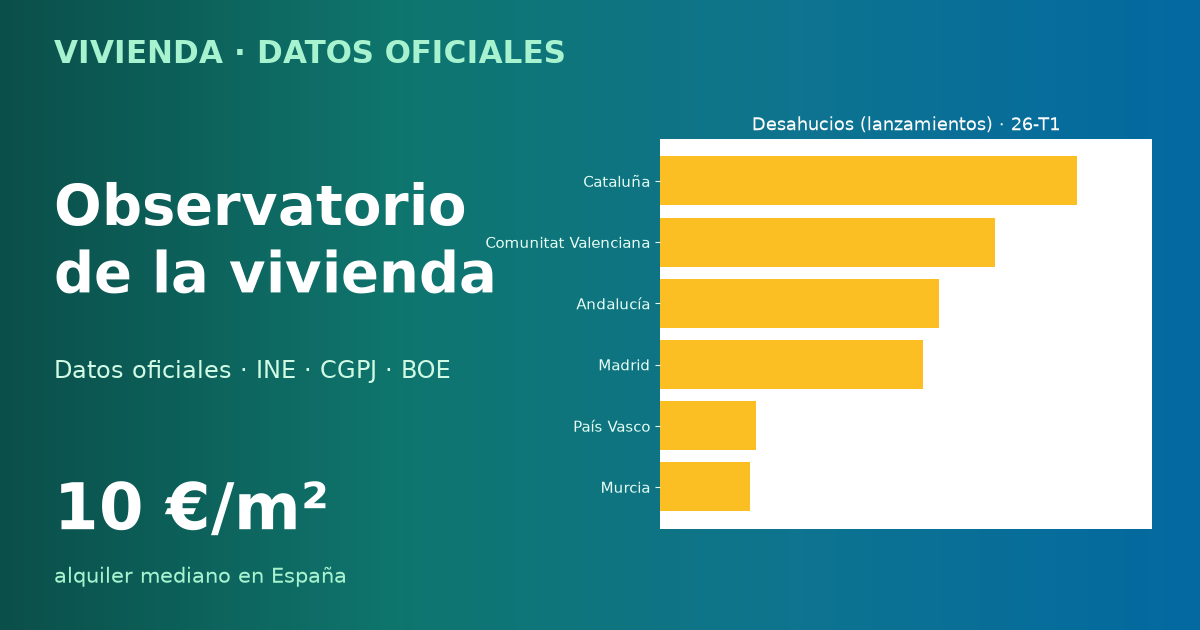
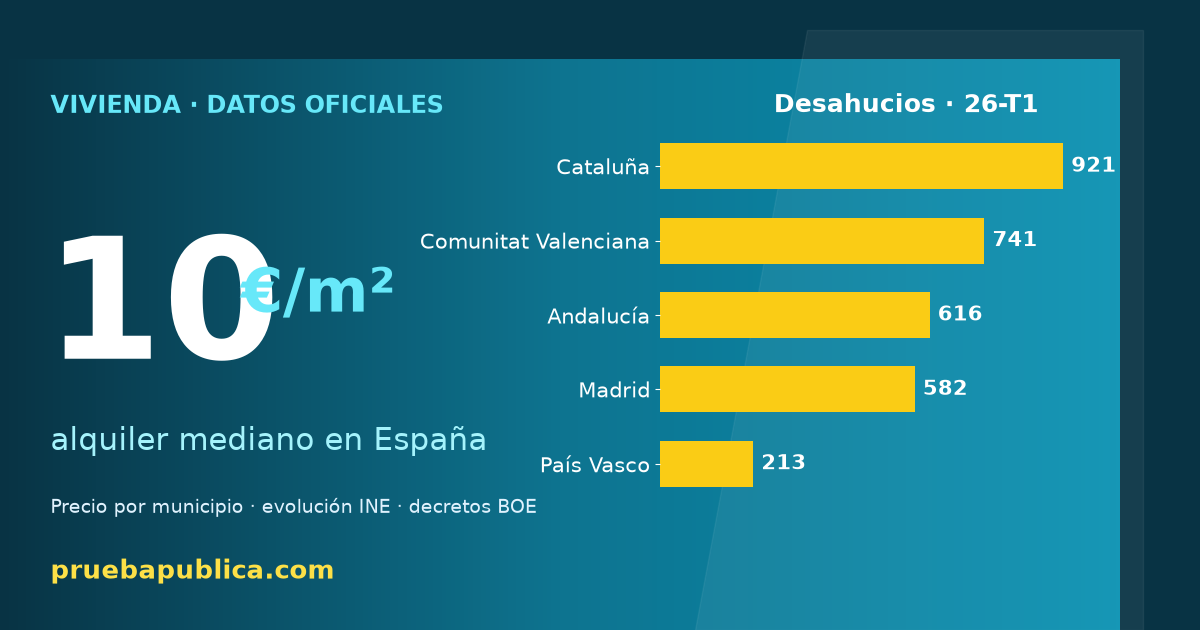
OG atrevido v2 (cifra gigante + barras)

diff --git a/gen/gen_og.py b/gen/gen_og.py
@@ -1,9 +1,11 @@
-"""OG de Vivienda: poster visual (número grande + gráfico), legible en miniatura. 1200x630."""
+"""OG de Vivienda — poster ATREVIDO (cifra gigante + barras gruesas). 1200x630."""
 from __future__ import annotations
 import os, sqlite3
+import numpy as np
 import matplotlib
 matplotlib.use("Agg")
 import matplotlib.pyplot as plt
+from matplotlib.colors import LinearSegmentedColormap
 
 ROOT = os.path.dirname(os.path.dirname(os.path.abspath(__file__)))
 DB = os.path.join(ROOT, "data", "vivienda.db")
@@ -11,54 +13,56 @@ VDB = "/home/deploy/municipal-intel/dashboard/data/via/via.db"
 OUT = os.path.join(ROOT, "web", "og.png")
 
 
-def _datos():
+def datos():
     c = sqlite3.connect(DB)
-    lz = c.execute("SELECT ambito, valor FROM lanzamientos WHERE ambito<>'TOTAL' AND periodo=(SELECT MAX(periodo) FROM lanzamientos) ORDER BY valor DESC LIMIT 6").fetchall()
     per = c.execute("SELECT MAX(periodo) FROM lanzamientos").fetchone()[0]
     tot = c.execute("SELECT valor FROM lanzamientos WHERE ambito='TOTAL' AND periodo=?", (per,)).fetchone()
+    lz = c.execute("SELECT ambito, valor FROM lanzamientos WHERE ambito<>'TOTAL' AND periodo=? ORDER BY valor DESC LIMIT 5", (per,)).fetchall()
     med = None
     try:
         v = sqlite3.connect(f"file:{VDB}?mode=ro", uri=True)
         f = v.execute("SELECT MAX(fecha) FROM via_index").fetchone()[0]
-        med = v.execute("SELECT eur_m2_mediana FROM via_index WHERE fecha=? AND eur_m2_mediana IS NOT NULL ORDER BY eur_m2_mediana LIMIT 1 OFFSET (SELECT COUNT(*)/2 FROM via_index WHERE fecha=? AND eur_m2_mediana IS NOT NULL)", (f, f)).fetchone()
-        med = med[0] if med else None
+        vals = sorted(x[0] for x in v.execute("SELECT eur_m2_mediana FROM via_index WHERE fecha=? AND eur_m2_mediana IS NOT NULL", (f,)))
+        med = vals[len(vals) // 2] if vals else None
     except Exception:
         pass
     return lz, per, (tot[0] if tot else None), med
 
 
 def build():
-    lz, per, tot, med = _datos()
+    lz, per, tot, med = datos()
     fig = plt.figure(figsize=(12, 6.3), dpi=100)
     ax = fig.add_axes([0, 0, 1, 1]); ax.axis("off")
-    ax.set_xlim(0, 1); ax.set_ylim(0, 1)
-    # fondo degradado
-    import numpy as np
-    g = np.linspace(0, 1, 256).reshape(1, -1)
-    ax.imshow(g, extent=[0, 1, 0, 1], aspect="auto", cmap=matplotlib.colors.LinearSegmentedColormap.from_list("b", ["#0b4f4a", "#0f766e", "#0e7490", "#0369a1"]), origin="lower", zorder=0)
-    # marca + título
-    ax.text(0.045, 0.90, "VIVIENDA · DATOS OFICIALES", color="#a7f3d0", fontsize=22, fontweight="bold", zorder=2)
-    ax.text(0.045, 0.72, "Observatorio\nde la vivienda", color="#ffffff", fontsize=40, fontweight="bold", va="top", zorder=2)
-    ax.text(0.045, 0.40, "Datos oficiales · INE · CGPJ · BOE", color="#d1fae5", fontsize=17, zorder=2)
-    # número grande (mediana €/m²)
+    ax.imshow(np.linspace(0, 1, 256).reshape(1, -1), extent=[0, 1, 0, 1], aspect="auto",
+              cmap=LinearSegmentedColormap.from_list("b", ["#083344", "#0e7490", "#0891b2"]), origin="lower", zorder=0)
+    # acento diagonal
+    ax.fill([0.62, 1.02, 1.02, 0.72], [0, 0, 1.05, 1.05], color="#ffffff", alpha=0.06, zorder=1)
+    # marca
+    ax.text(0.045, 0.905, "VIVIENDA · DATOS OFICIALES", color="#67e8f9", fontsize=17, fontweight="bold", zorder=3)
+    # cifra GIGANTE (alquiler mediano)
     if med:
-        ax.text(0.045, 0.16, f"{med:.0f} €/m²", color="#ffffff", fontsize=46, fontweight="bold", zorder=2)
-        ax.text(0.045, 0.075, "alquiler mediano en España", color="#a7f3d0", fontsize=15, zorder=2)
-    # gráfico de barras (lanzamientos por CCAA)
-    axb = fig.add_axes([0.55, 0.16, 0.41, 0.62])
-    nombres = [a.replace(", COMUNIDAD", "").replace(", REGIÓN", "").title().replace(" De ", " de ").replace(" La ", " la ") for a, _ in lz][::-1]
-    vals = [v for _, v in lz][::-1]
-    axb.barh(nombres, vals, color="#fbbf24")
-    axb.set_title(f"Desahucios (lanzamientos) · {per}", color="#ffffff", fontsize=13, pad=6)
-    axb.tick_params(colors="#e8fff7", labelsize=11)
+        ax.text(0.04, 0.70, f"{med:.0f}", color="#ffffff", fontsize=122, fontweight="bold", va="top", ha="left", zorder=3)
+        ax.text(0.215, 0.585, "€/m²", color="#67e8f9", fontsize=44, fontweight="bold", va="center", zorder=3)
+        ax.text(0.045, 0.315, "alquiler mediano en España", color="#a5f3fc", fontsize=22, zorder=3)
+    ax.text(0.045, 0.205, "Precio por municipio · evolución INE · decretos BOE", color="#e0f2fe", fontsize=13.5, zorder=3)
+    ax.text(0.045, 0.09, "pruebapublica.com", color="#fde047", fontsize=19, fontweight="bold", zorder=3)
+    # panel de barras gruesas
+    axb = fig.add_axes([0.55, 0.20, 0.41, 0.60])
+    axb.patch.set_visible(False)
+    nom = [a.split(",")[0].title() for a, _ in lz][::-1]
+    val = [v for _, v in lz][::-1]
+    bars = axb.barh(nom, val, color="#facc15", height=0.62)
+    axb.set_title(f"Desahucios · {per}", color="#ffffff", fontsize=18, fontweight="bold", pad=10)
+    axb.tick_params(colors="#ffffff", labelsize=15)
     for s in axb.spines.values():
         s.set_visible(False)
     axb.set_xticks([])
-    for i, v in enumerate(vals):
-        axb.text(v + max(vals) * 0.02, i, f"{int(v):,}".replace(",", "."), va="center", color="#ffffff", fontsize=11, fontweight="bold")
-    axb.set_xlim(0, max(vals) * 1.18)
-    fig.savefig(OUT, facecolor="#0f766e")
-    print("[og]", OUT, "| lz", len(lz), "| med", med)
+    for b, v in zip(bars, val):
+        axb.text(v + max(val) * 0.02, b.get_y() + b.get_height() / 2, f"{int(v):,}".replace(",", "."),
+                 va="center", color="#ffffff", fontsize=15, fontweight="bold")
+    axb.set_xlim(0, max(val) * 1.22)
+    fig.savefig(OUT, facecolor="#083344")
+    print("[og] ok | med", med, "| tot", tot)
 
 
 if __name__ == "__main__":
